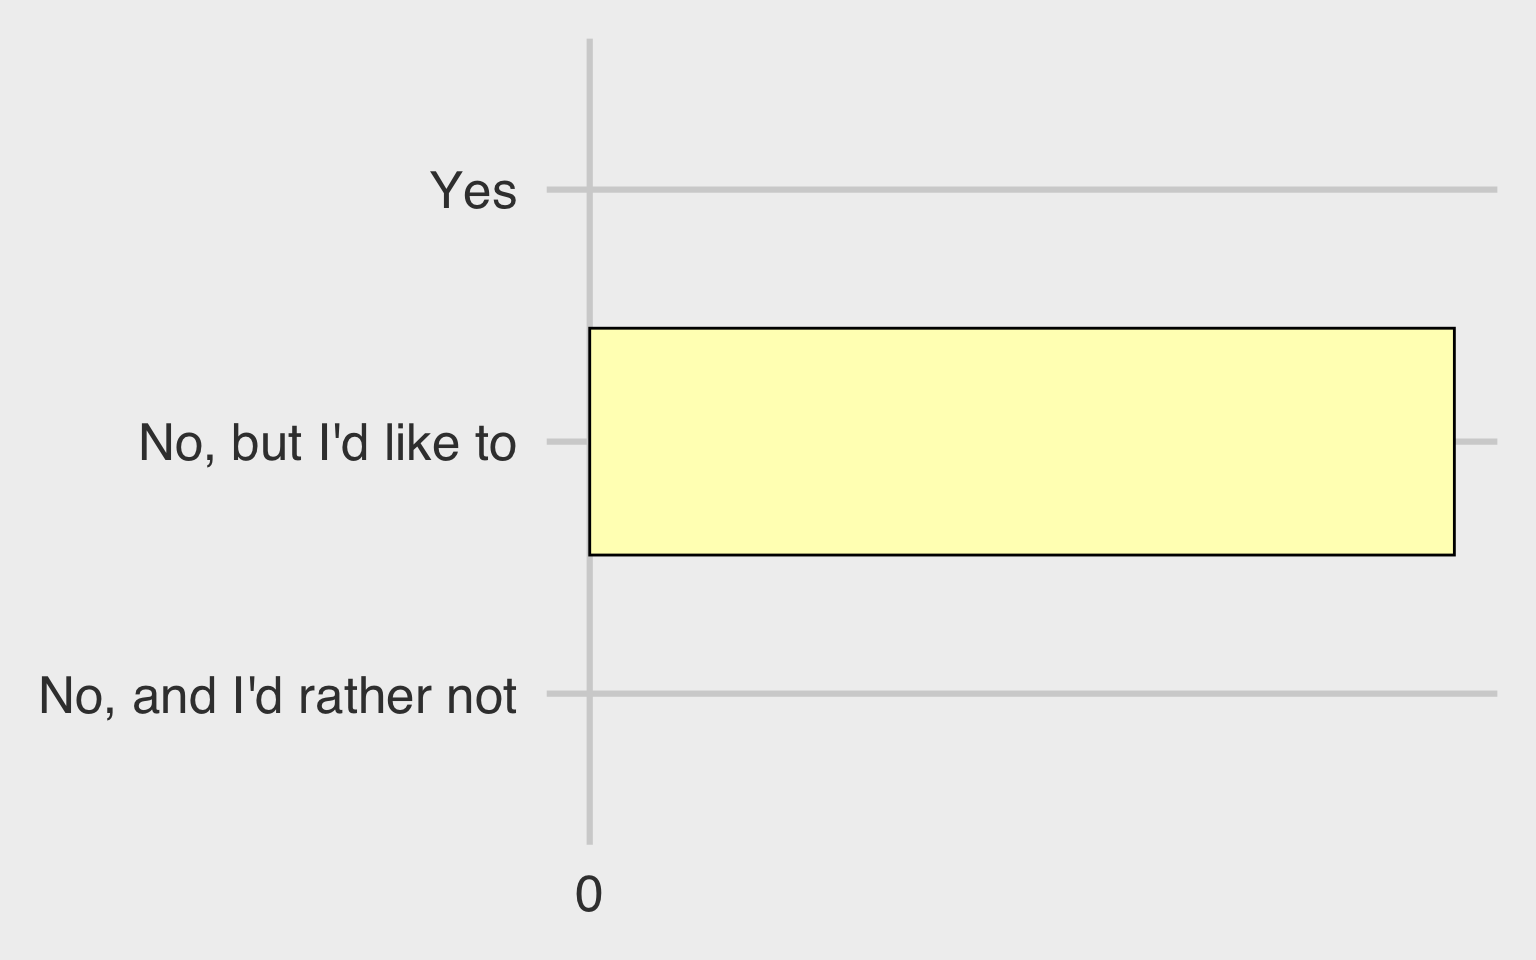
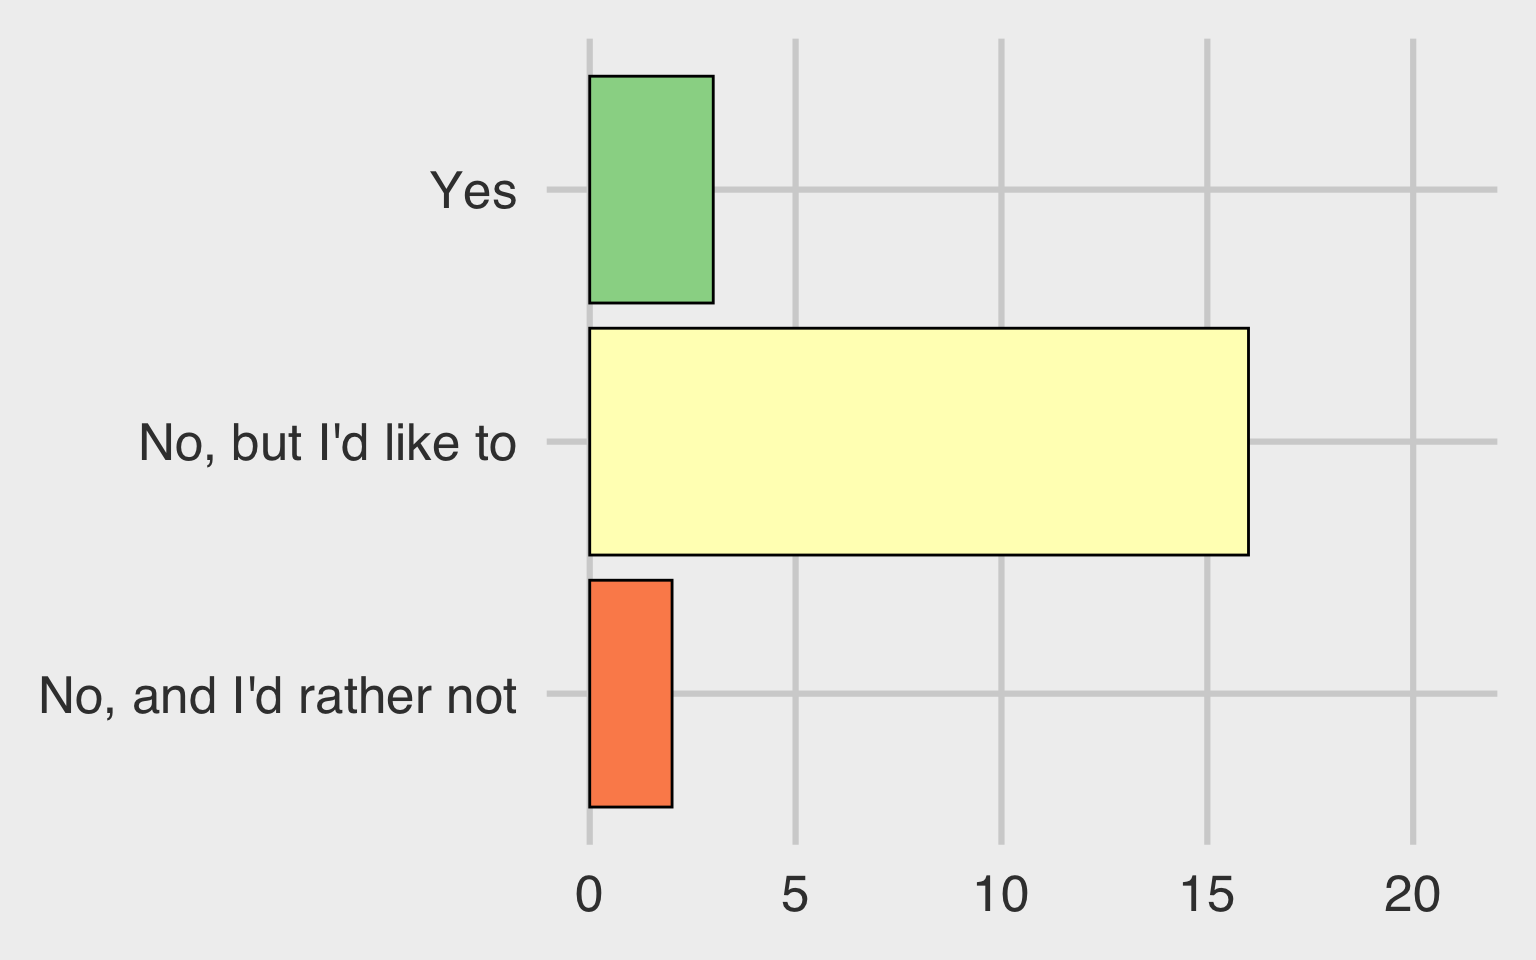
poll 2

diff --git a/docs/polls/poll-02.html b/docs/polls/poll-02.html
@@ -109,7 +109,7 @@ ul.task-list li input[type="checkbox"] {
 <!-- margin-sidebar -->
 <!-- main -->
 
-<p>1 Participants</p>
+<p>21 Participants</p>
 <div class="bslib-grid-item html-fill-item bslib-grid" data-layout="fill" style="display: grid; grid-template-rows: minmax(3em, 1fr) minmax(3em, 1fr) minmax(3em, 1fr); grid-auto-columns: minmax(0, 1fr);">
 <div class="bslib-grid" style="display: grid; grid-template-columns: minmax(3em, 1fr) minmax(3em, 1fr) minmax(3em, 1fr);
 grid-auto-rows: minmax(0, 1fr);">
@@ -209,6 +209,144 @@ grid-auto-rows: minmax(0, 1fr);">
 <tr class="even">
 <td style="text-align: left;">projects</td>
 </tr>
+<tr class="odd">
+<td style="text-align: left;">Troubleshooting</td>
+</tr>
+<tr class="even">
+<td style="text-align: left;">Setup</td>
+</tr>
+<tr class="odd">
+<td style="text-align: left;">customisation</td>
+</tr>
+<tr class="even">
+<td style="text-align: left;">attaching images</td>
+</tr>
+<tr class="odd">
+<td style="text-align: left;">making tables</td>
+</tr>
+<tr class="even">
+<td style="text-align: left;">titles</td>
+</tr>
+<tr class="odd">
+<td style="text-align: left;">Creating headings</td>
+</tr>
+<tr class="even">
+<td style="text-align: left;">installing packages</td>
+</tr>
+<tr class="odd">
+<td style="text-align: left;">Chunks</td>
+</tr>
+<tr class="even">
+<td style="text-align: left;">YAML header</td>
+</tr>
+<tr class="odd">
+<td style="text-align: left;">making tables</td>
+</tr>
+<tr class="even">
+<td style="text-align: left;">images</td>
+</tr>
+<tr class="odd">
+<td style="text-align: left;">tables</td>
+</tr>
+<tr class="even">
+<td style="text-align: left;">code chunks</td>
+</tr>
+<tr class="odd">
+<td style="text-align: left;">inline code</td>
+</tr>
+<tr class="even">
+<td style="text-align: left;">Naming Text Styles</td>
+</tr>
+<tr class="odd">
+<td style="text-align: left;">R syntax</td>
+</tr>
+<tr class="even">
+<td style="text-align: left;">Quarto - creating a document</td>
+</tr>
+<tr class="odd">
+<td style="text-align: left;">headers etc.</td>
+</tr>
+<tr class="even">
+<td style="text-align: left;">adding a header</td>
+</tr>
+<tr class="odd">
+<td style="text-align: left;">images</td>
+</tr>
+<tr class="even">
+<td style="text-align: left;">Code Basics Packages Functions Arguments Text Style Setup Chunks Local Data</td>
+</tr>
+<tr class="odd">
+<td style="text-align: left;">overall set up and basic skills</td>
+</tr>
+<tr class="even">
+<td style="text-align: left;">Libraries</td>
+</tr>
+<tr class="odd">
+<td style="text-align: left;">YAML Heading</td>
+</tr>
+<tr class="even">
+<td style="text-align: left;">Reference List</td>
+</tr>
+<tr class="odd">
+<td style="text-align: left;">Organising the report</td>
+</tr>
+<tr class="even">
+<td style="text-align: left;">adding headers</td>
+</tr>
+<tr class="odd">
+<td style="text-align: left;">echo</td>
+</tr>
+<tr class="even">
+<td style="text-align: left;">toc</td>
+</tr>
+<tr class="odd">
+<td style="text-align: left;">adding images</td>
+</tr>
+<tr class="even">
+<td style="text-align: left;">tables and cross referencing</td>
+</tr>
+<tr class="odd">
+<td style="text-align: left;">formatting and enhancing the reports</td>
+</tr>
+<tr class="even">
+<td style="text-align: left;">tables</td>
+</tr>
+<tr class="odd">
+<td style="text-align: left;">images</td>
+</tr>
+<tr class="even">
+<td style="text-align: left;">Code Chunks</td>
+</tr>
+<tr class="odd">
+<td style="text-align: left;">Headers</td>
+</tr>
+<tr class="even">
+<td style="text-align: left;">Code chunks</td>
+</tr>
+<tr class="odd">
+<td style="text-align: left;">quarto reports</td>
+</tr>
+<tr class="even">
+<td style="text-align: left;">markdown</td>
+</tr>
+<tr class="odd">
+<td style="text-align: left;">inline R</td>
+</tr>
+<tr class="even">
+<td style="text-align: left;">YAML</td>
+</tr>
+<tr class="odd">
+<td style="text-align: left;">Set-up; YAML; Images; Tables</td>
+</tr>
+<tr class="even">
+<td style="text-align: left;">markdown</td>
+</tr>
+<tr class="odd">
+<td style="text-align: left;">inline coding</td>
+</tr>
+<tr class="even">
+<td style="text-align: left;">basic r command structure</td>
+</tr>
 </tbody>
 </table>
 
@@ -238,6 +376,72 @@ grid-auto-rows: minmax(0, 1fr);">
 </tr>
 <tr class="even">
 <td style="text-align: left;">bibliography</td>
+</tr>
+<tr class="odd">
+<td style="text-align: left;">Adding the table</td>
+</tr>
+<tr class="even">
+<td style="text-align: left;">bibliography and figures</td>
+</tr>
+<tr class="odd">
+<td style="text-align: left;">referencing</td>
+</tr>
+<tr class="even">
+<td style="text-align: left;">adding tables and images</td>
+</tr>
+<tr class="odd">
+<td style="text-align: left;">Adding pictures</td>
+</tr>
+<tr class="even">
+<td style="text-align: left;">uploading the assessment</td>
+</tr>
+<tr class="odd">
+<td style="text-align: left;">referencing</td>
+</tr>
+<tr class="even">
+<td style="text-align: left;">using referencing styles</td>
+</tr>
+<tr class="odd">
+<td style="text-align: left;">Code chunks Image insertion Bibliography</td>
+</tr>
+<tr class="even">
+<td style="text-align: left;">the term knitting</td>
+</tr>
+<tr class="odd">
+<td style="text-align: left;">Bibliography</td>
+</tr>
+<tr class="even">
+<td style="text-align: left;">inline R</td>
+</tr>
+<tr class="odd">
+<td style="text-align: left;">references</td>
+</tr>
+<tr class="even">
+<td style="text-align: left;">How do link a picture online to your code</td>
+</tr>
+<tr class="odd">
+<td style="text-align: left;">bibliography</td>
+</tr>
+<tr class="even">
+<td style="text-align: left;">using ggplots and creating graphs</td>
+</tr>
+<tr class="odd">
+<td style="text-align: left;">YAML headers</td>
+</tr>
+<tr class="even">
+<td style="text-align: left;">YAML</td>
+</tr>
+<tr class="odd">
+<td style="text-align: left;">quarto</td>
+</tr>
+<tr class="even">
+<td style="text-align: left;">markdown</td>
+</tr>
+<tr class="odd">
+<td style="text-align: left;">Cross-references; Bibliographies</td>
+</tr>
+<tr class="even">
+<td style="text-align: left;">references</td>
 </tr>
 </tbody>
 </table>
